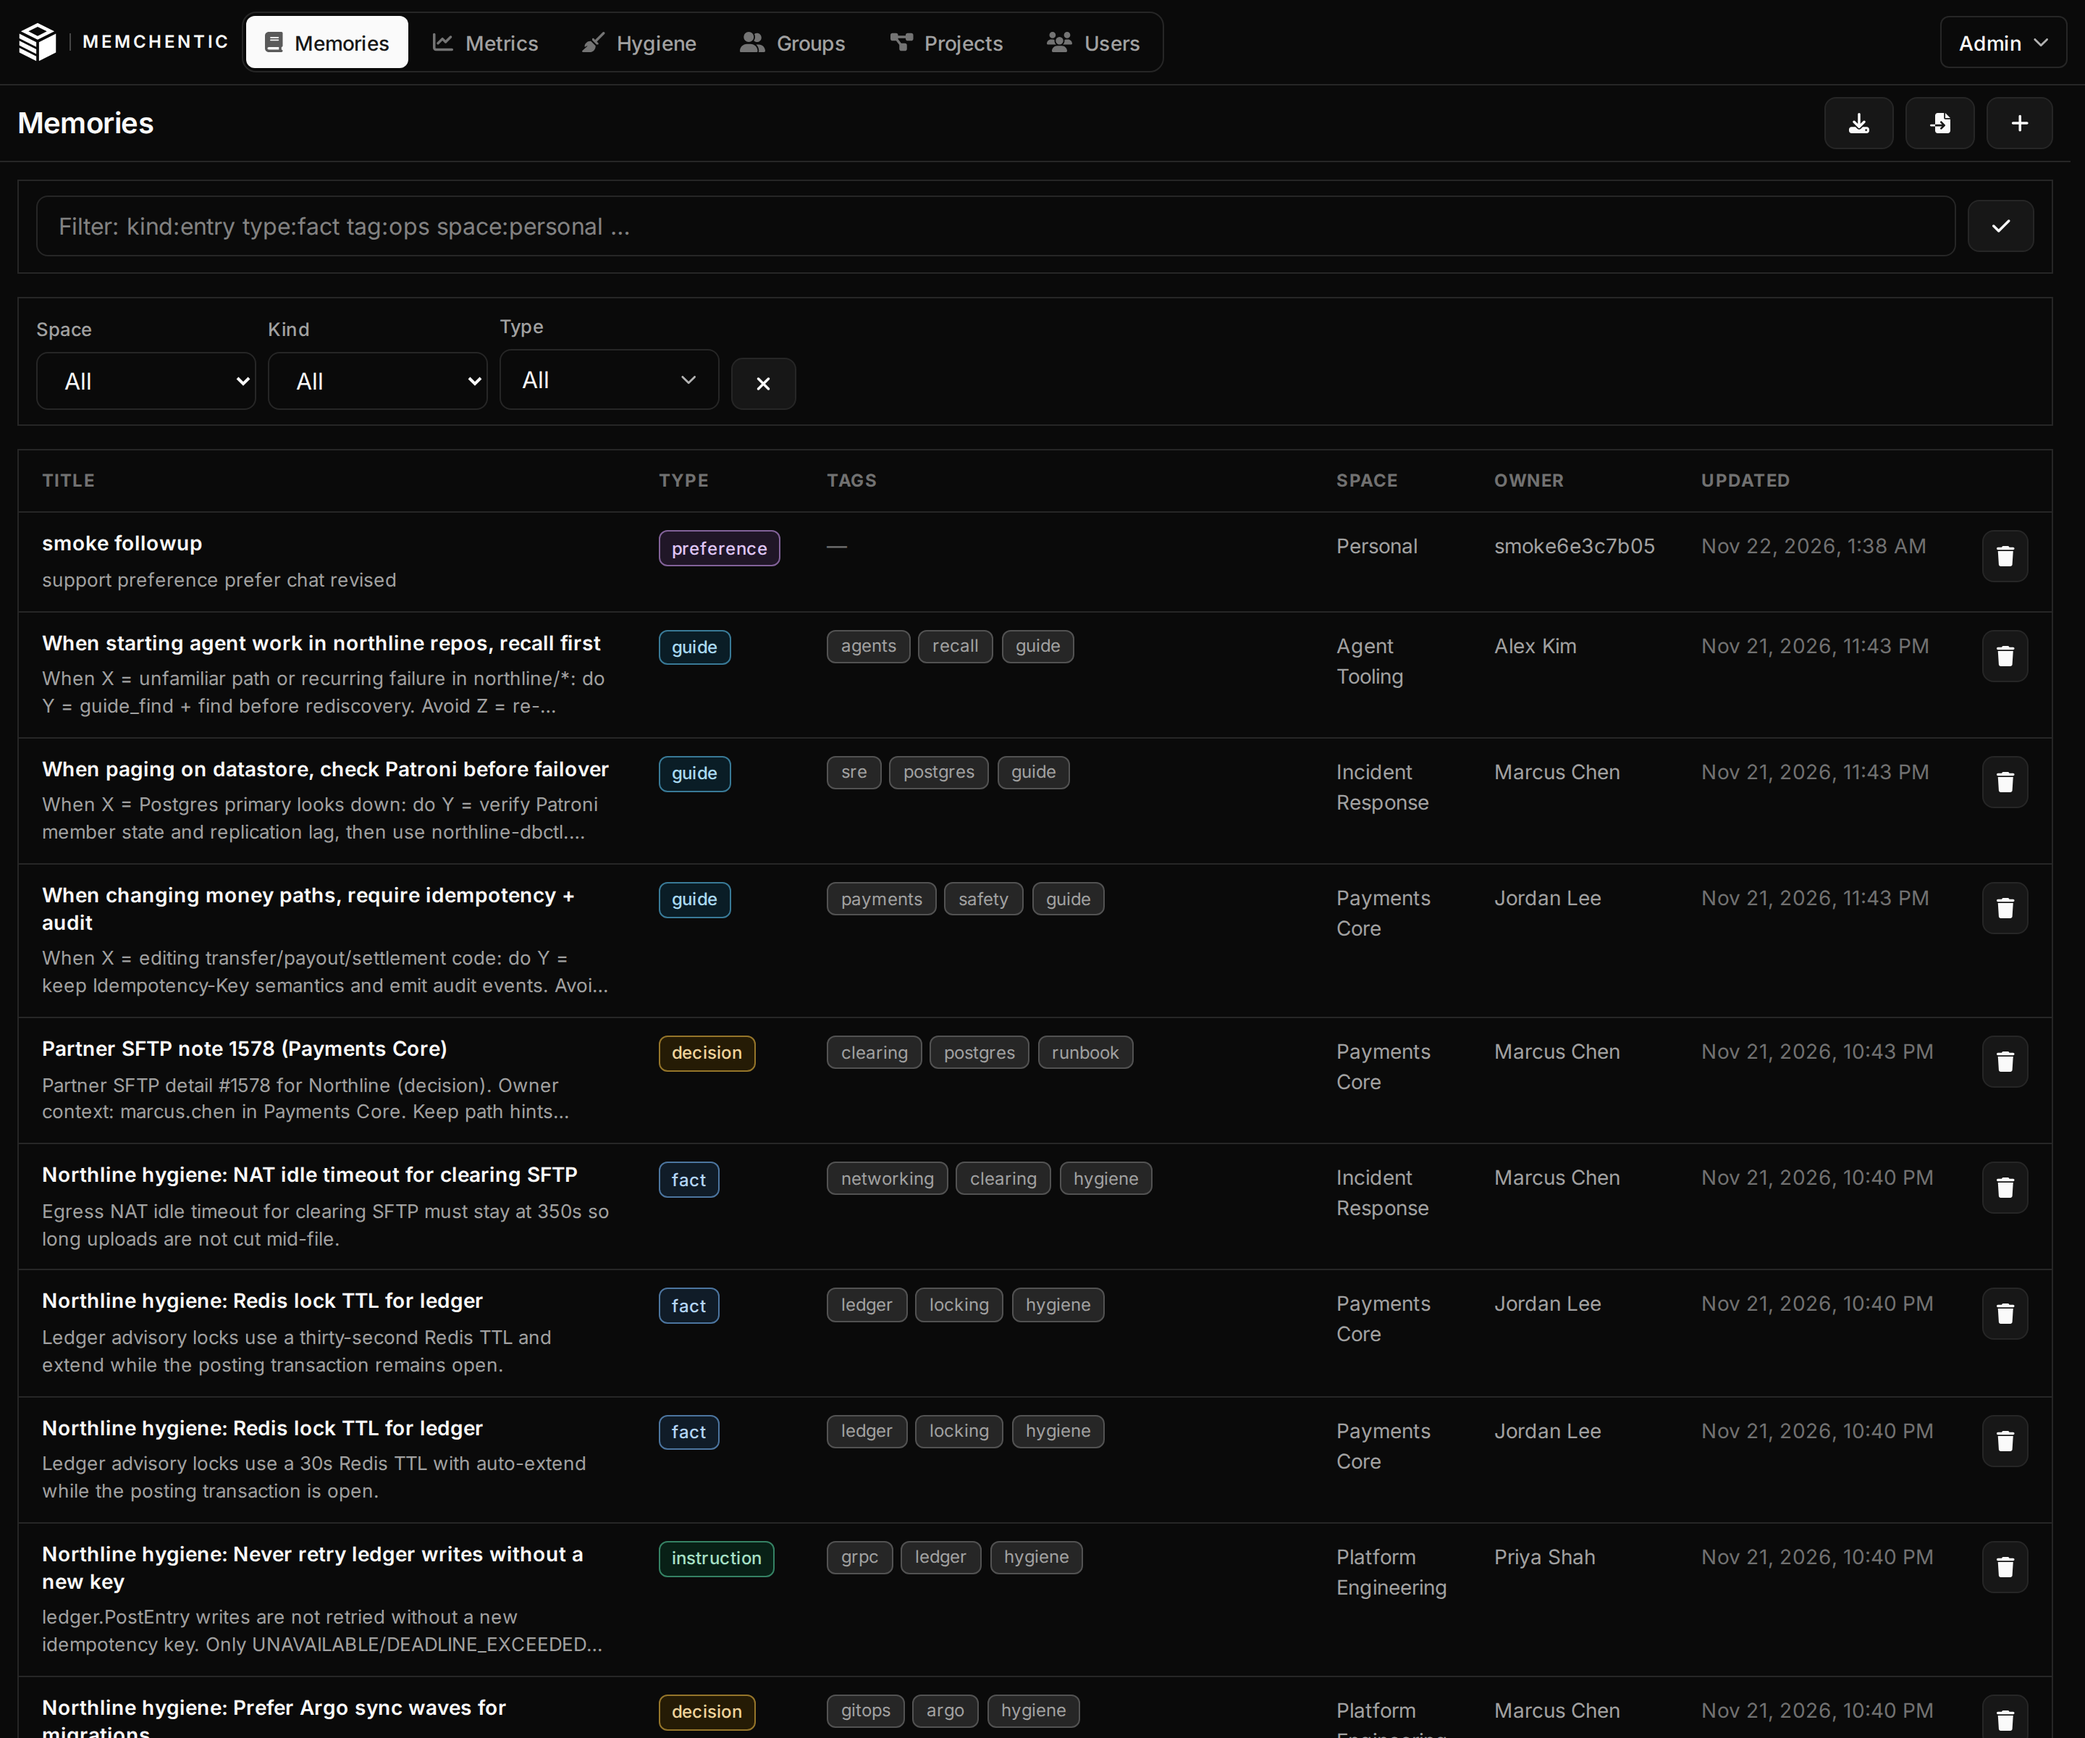
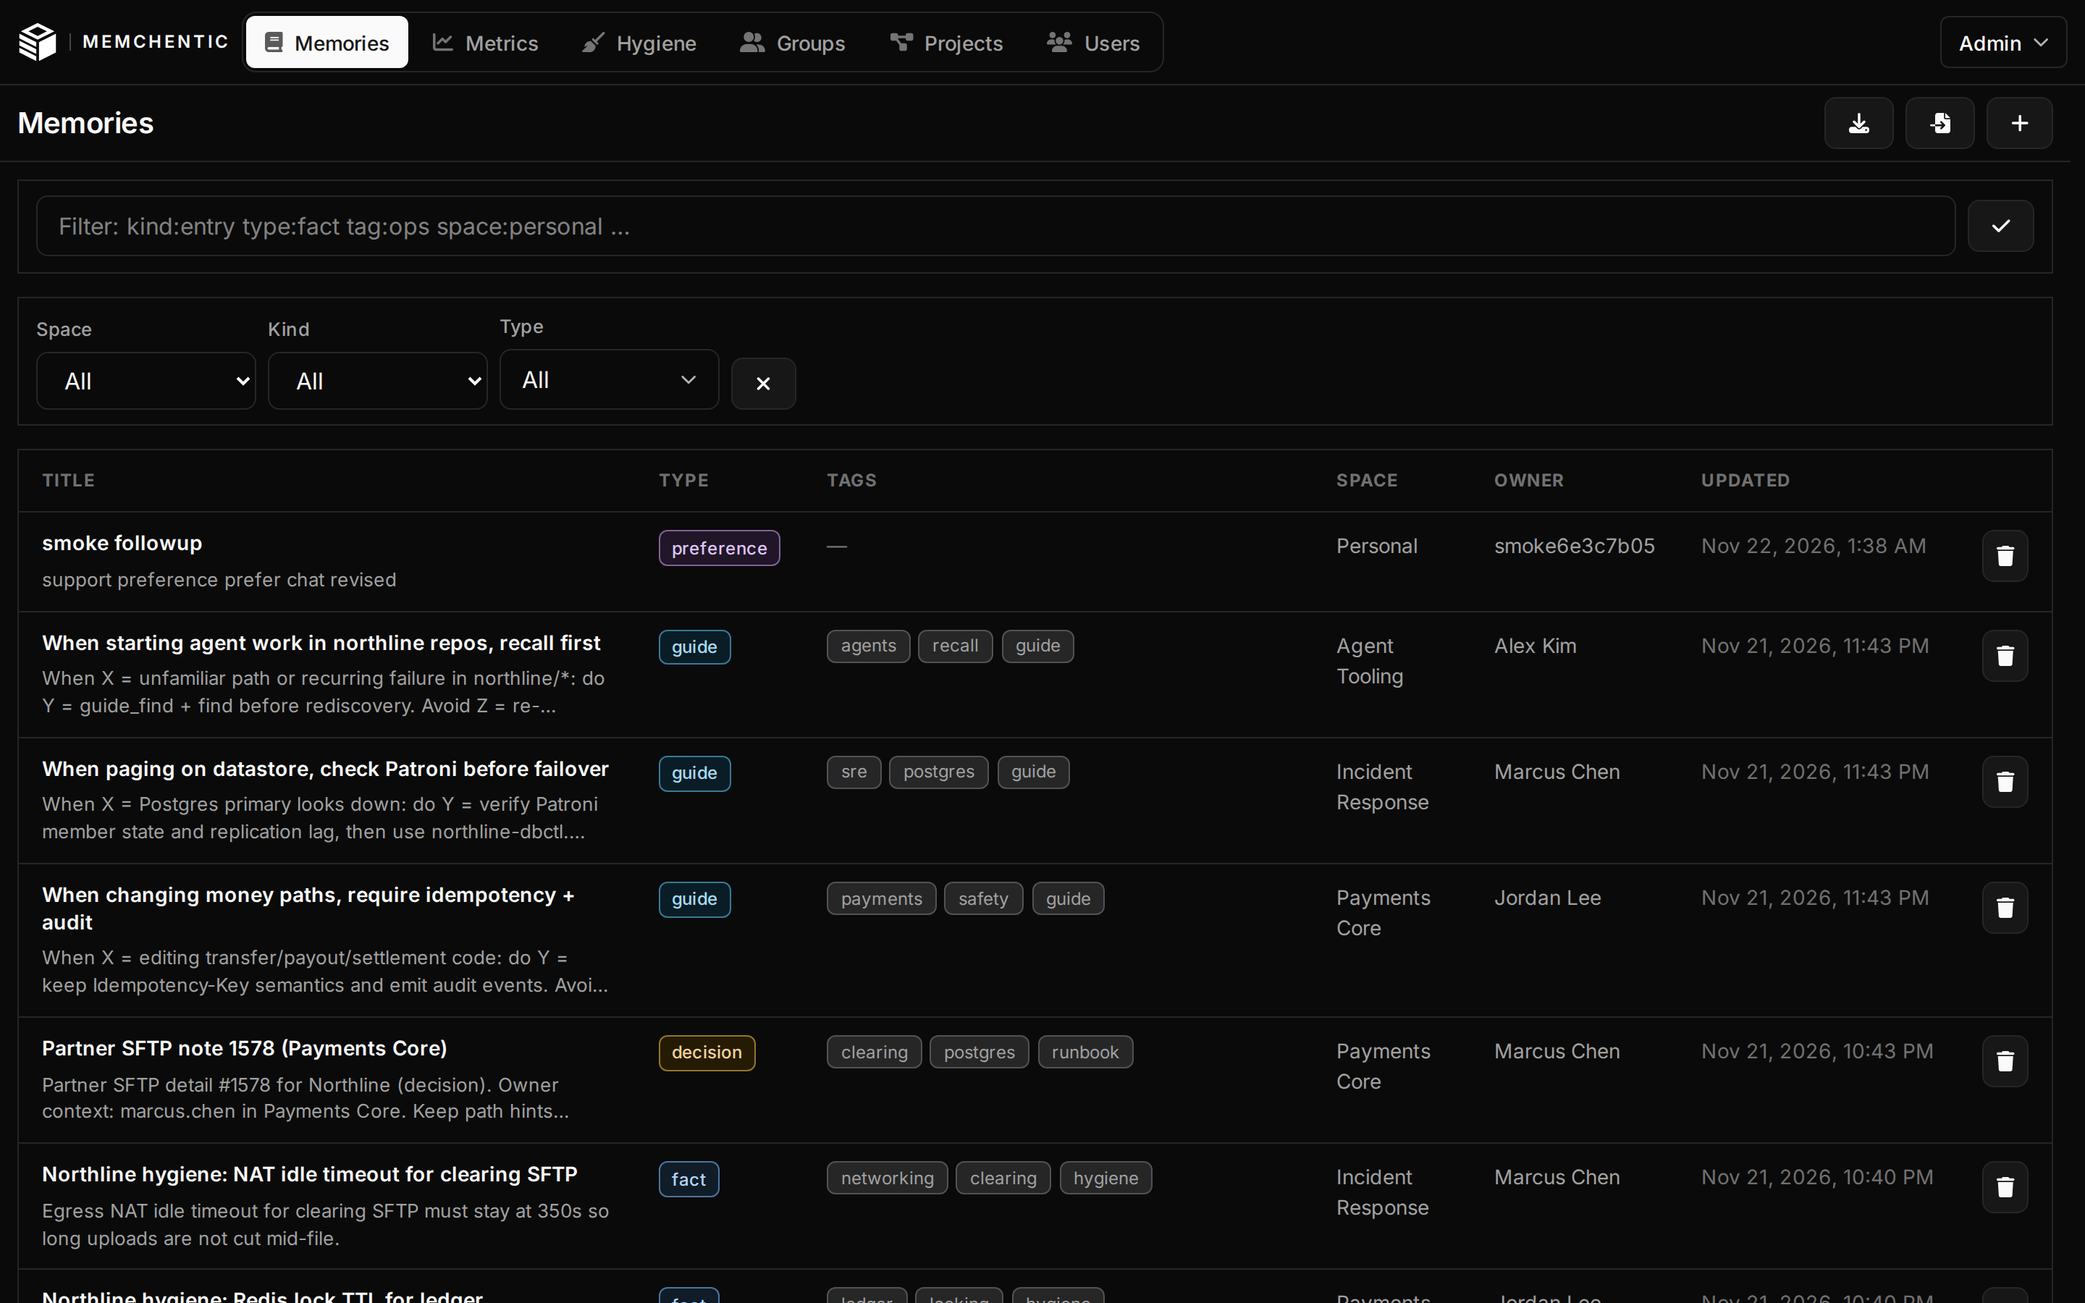
fix(site): full-viewport shot lightbox and 16:10 side frames (#4)
Portal enlarge to document.body, X-only close with backdrop dismiss,
and show Memories/Metrics thumbs with contain in a 16:10 frame so the
GUI is not cropped on the right.

diff --git a/src/components/ShotLightbox.tsx b/src/components/ShotLightbox.tsx
@@ -1,10 +1,4 @@
-import {
-  useEffect,
-  useId,
-  useRef,
-  useState,
-  type ReactNode,
-} from "react";
+import { useEffect, useState, type ReactNode } from "react";
 import { createPortal } from "react-dom";
 
 type ShotLightboxProps = {
@@ -15,11 +9,8 @@ type ShotLightboxProps = {
   className?: string;
 };
 
-const SECTION_OPEN_CLASS = "band--lightbox-open";
-
 /**
- * Product screenshot that opens a large modal on click / Enter / Space.
- * The overlay is portaled into the nearest `.reveal` / `.band` section.
+ * Product screenshot that opens a viewport-centered lightbox on click.
  */
 export function ShotLightbox({
   src,
@@ -29,23 +20,9 @@ export function ShotLightbox({
   className = "",
 }: ShotLightboxProps) {
   const [open, setOpen] = useState(false);
-  const [sectionEl, setSectionEl] = useState<HTMLElement | null>(null);
-  const triggerRef = useRef<HTMLButtonElement>(null);
-  const titleId = useId();
 
   useEffect(() => {
-    const trigger = triggerRef.current;
-    if (!trigger) {
-      return;
-    }
-    const section =
-      trigger.closest<HTMLElement>(".reveal") ??
-      trigger.closest<HTMLElement>(".band");
-    setSectionEl(section);
-  }, []);
-
-  useEffect(() => {
-    if (!open || !sectionEl) {
+    if (!open) {
       return;
     }
     const onKey = (e: KeyboardEvent) => {
@@ -53,41 +30,37 @@ export function ShotLightbox({
         setOpen(false);
       }
     };
-    sectionEl.classList.add(SECTION_OPEN_CLASS);
+    const prev = document.body.style.overflow;
+    document.body.style.overflow = "hidden";
     window.addEventListener("keydown", onKey);
     return () => {
-      sectionEl.classList.remove(SECTION_OPEN_CLASS);
+      document.body.style.overflow = prev;
       window.removeEventListener("keydown", onKey);
     };
-  }, [open, sectionEl]);
+  }, [open]);
 
   const backdrop =
-    open && sectionEl
+    open && typeof document !== "undefined"
       ? createPortal(
           <div
             className="shot-lightbox-backdrop"
             role="dialog"
             aria-modal="true"
-            aria-labelledby={titleId}
+            aria-label={alt}
             onClick={() => setOpen(false)}
           >
             <div
               className="shot-lightbox-panel"
               onClick={(e) => e.stopPropagation()}
             >
-              <div className="shot-lightbox-bar">
-                <p id={titleId} className="shot-lightbox-title">
-                  {alt}
-                </p>
-                <button
-                  type="button"
-                  className="shot-lightbox-close"
-                  onClick={() => setOpen(false)}
-                  aria-label="Close enlarged screenshot"
-                >
-                  Close
-                </button>
-              </div>
+              <button
+                type="button"
+                className="shot-lightbox-close"
+                onClick={() => setOpen(false)}
+                aria-label="Close enlarged screenshot"
+              >
+                ×
+              </button>
               <img
                 src={src}
                 alt=""
@@ -98,14 +71,13 @@ export function ShotLightbox({
               />
             </div>
           </div>,
-          sectionEl,
+          document.body,
         )
       : null;
 
   return (
     <>
       <button
-        ref={triggerRef}
         type="button"
         className={`shot-lightbox-trigger ${className}`.trim()}
         onClick={() => setOpen(true)}

diff --git a/src/index.css b/src/index.css
@@ -804,11 +804,6 @@ body {
 /* —— Section bands & richer layouts —— */
 .band {
   position: relative;
-  isolation: isolate;
-}
-
-.band--lightbox-open {
-  overflow: hidden;
 }
 
 .band-alt {
@@ -2144,8 +2139,8 @@ body {
   width: 100%;
   height: auto;
   min-height: 0;
-  /* Match Admin capture viewport 1440×1200 (6:5). */
-  aspect-ratio: 6 / 5;
+  /* Match Admin capture viewport 1440×900 (16:10). */
+  aspect-ratio: 16 / 10;
 }
 
 .shot-lightbox-trigger {
@@ -2171,9 +2166,10 @@ body {
   display: block;
   width: 100%;
   height: 100%;
-  object-fit: cover;
-  object-position: top left;
+  object-fit: contain;
+  object-position: top center;
   vertical-align: top;
+  background: var(--color-surface);
 }
 
 .shot-lightbox-hint {
@@ -2198,9 +2194,9 @@ body {
 }
 
 .shot-lightbox-backdrop {
-  position: absolute;
+  position: fixed;
   inset: 0;
-  z-index: 80;
+  z-index: 200;
   display: flex;
   align-items: center;
   justify-content: center;
@@ -2210,10 +2206,11 @@ body {
 }
 
 .shot-lightbox-panel {
+  position: relative;
   display: flex;
   flex-direction: column;
   width: min(1120px, 100%);
-  max-height: calc(100% - 2.5rem);
+  max-height: min(92vh, 100%);
   border: 1px solid var(--color-border-strong);
   border-radius: var(--radius-md);
   background: var(--color-surface);
@@ -2221,33 +2218,27 @@ body {
   box-shadow: 0 24px 80px oklch(0 0 0 / 0.55);
 }
 
-.shot-lightbox-bar {
-  display: flex;
-  align-items: center;
-  justify-content: space-between;
-  gap: 1rem;
-  padding: 0.75rem 1rem;
-  border-bottom: 1px solid var(--color-border);
-}
-
-.shot-lightbox-title {
-  margin: 0;
-  font-size: 0.875rem;
-  color: var(--color-muted);
-  text-wrap: pretty;
-}
-
 .shot-lightbox-close {
   appearance: none;
-  flex-shrink: 0;
-  cursor: pointer;
-  padding: 0.35rem 0.75rem;
+  position: absolute;
+  top: 0.65rem;
+  right: 0.65rem;
+  z-index: 1;
+  display: inline-flex;
+  align-items: center;
+  justify-content: center;
+  width: 2.25rem;
+  height: 2.25rem;
+  margin: 0;
+  padding: 0;
   border: 1px solid var(--color-border-strong);
   border-radius: var(--radius-sm);
-  background: transparent;
+  background: color-mix(in oklab, var(--color-surface) 88%, transparent);
   color: var(--color-ink);
   font: inherit;
-  font-size: 0.8125rem;
+  font-size: 1.35rem;
+  line-height: 1;
+  cursor: pointer;
 }
 
 .shot-lightbox-close:hover {
@@ -2258,7 +2249,7 @@ body {
   display: block;
   width: 100%;
   height: auto;
-  max-height: calc(100% - 3.5rem);
+  max-height: min(92vh, 100%);
   object-fit: contain;
   background: var(--color-surface);
 }

diff --git a/src/components/LandingPage.tsx b/src/components/LandingPage.tsx
@@ -220,7 +220,7 @@ export function LandingPage() {
                 src={`${import.meta.env.BASE_URL}screenshots/memories.png`}
                 alt="Memchentic Memories page listing typed entries and guides"
                 width={1440}
-                height={1200}
+                height={900}
               />
             </ShotFigure>
           </div>
@@ -356,7 +356,7 @@ export function LandingPage() {
                 src={`${import.meta.env.BASE_URL}screenshots/metrics.png`}
                 alt="Memchentic Metrics page with colored charts for entries, guides, types, and spaces"
                 width={1440}
-                height={1200}
+                height={900}
               />
             </ShotFigure>
           </div>

diff --git a/scripts/seed_demo_and_shots.py b/scripts/seed_demo_and_shots.py
@@ -1227,8 +1227,8 @@ def capture_screenshots(login_email: str, login_password: str) -> None:
         raise
 
     SHOT_DIR.mkdir(parents=True, exist_ok=True)
-    # Tall viewport so Memories/Metrics shots fill the pitch-site side column.
-    viewport = {"width": 1440, "height": 1200}
+    # 16:10 viewport matches pitch-site side-column frames (no side crop).
+    viewport = {"width": 1440, "height": 900}
 
     with sync_playwright() as p:
         browser = p.chromium.launch(headless=True)
